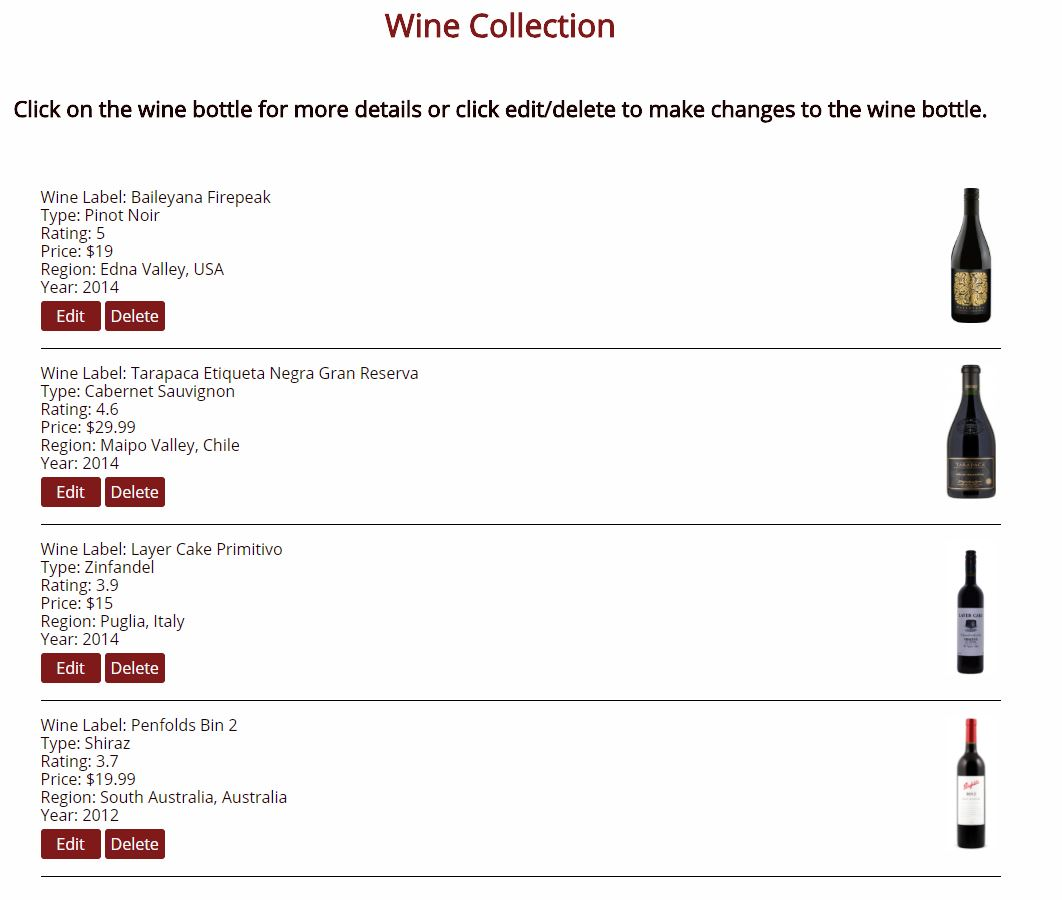
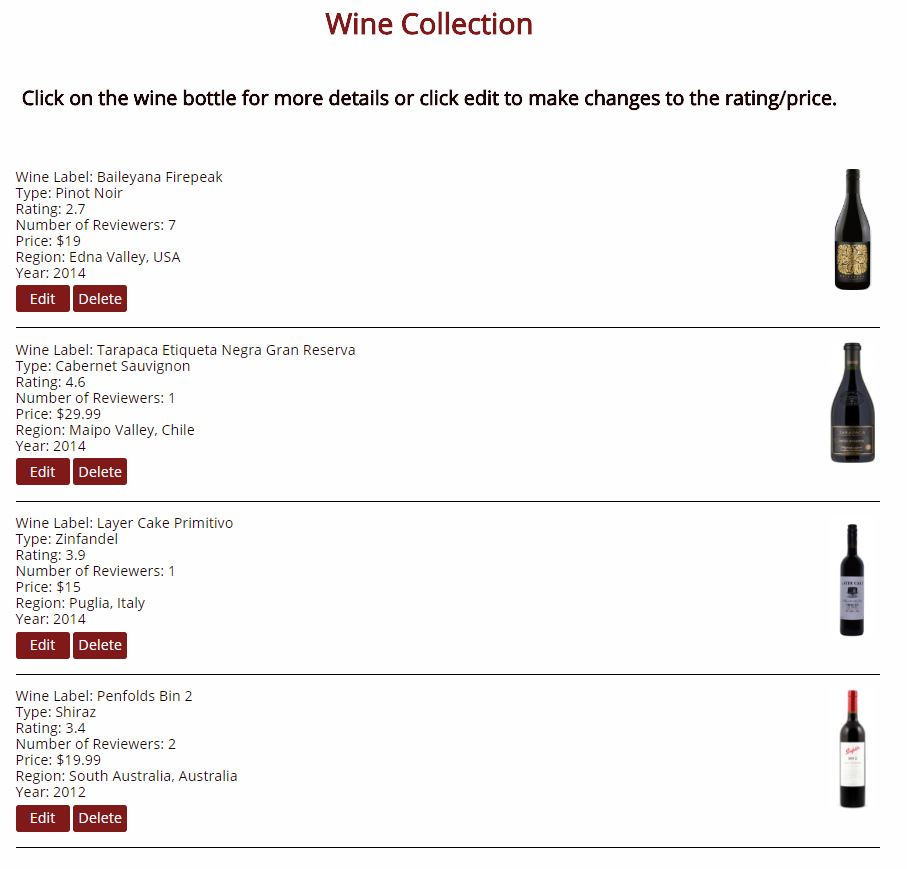
Remove console.logs

diff --git a/public/app.js b/public/app.js
@@ -25,7 +25,7 @@ function getRedWine() {
 }
 
 //Get Red Wine by ID
-function getRedWineByID(id) {
+function getRedWineByID(id, color) {
     let authToken = localStorage.getItem('authToken');
     const settings2 = {
         'async': true,
@@ -37,9 +37,11 @@ function getRedWineByID(id) {
             'Cache-Control': 'no-cache',
         },
         'success': function(currentID) {
-            singleWineResult(currentID);
-            editWine(currentID);
-            console.log(currentID);
+            if(color === 'redWine') {
+                editWine(currentID);
+            } else {
+                singleWineResult(currentID);
+            }
         }
     }
     $.ajax(settings2);
@@ -70,7 +72,7 @@ function getWhiteWine() {
 }
 
 //Get White Wine by ID
-function getWhiteWineByID(id) {
+function getWhiteWineByID(id, color) {
     let authToken = localStorage.getItem('authToken');
     const settings4 = {
         'async': true,
@@ -82,8 +84,11 @@ function getWhiteWineByID(id) {
             'Cache-Control': 'no-cache',
         },
         'success': function(currentID) {
-            singleWineResult(currentID);
-            editWine(currentID);
+            if(color === 'whiteWine') {
+                editWine(currentID);
+            } else {
+                singleWineResult(currentID);
+            }
         }
     }
     $.ajax(settings4);
@@ -226,13 +231,13 @@ function newUser() {
             <fieldset name='newAddedUser'>
             <legend>New User</legend>
             <label for='js-new-first-name' class='newUserFirstName'>First Name</label>
-            <input placeholder='Alice' type='text' name='js-new-first-name' id='js-new-first-name'>
+            <input placeholder='Ryan' type='text' name='js-new-first-name' id='js-new-first-name'>
             <label for='js-new-last-name' class='newUserLastName'>Last Name</label>
-            <input placeholder='Red' type='text' name='js-new-last-name' id='js-new-last-name'>
-            <label for='js-new-user-name' class='newUserName'>User Name</label>
+            <input placeholder='Okamuro' type='text' name='js-new-last-name' id='js-new-last-name'>
+            <label for='js-new-user-name' class='newUserName'>Username</label>
             <input placeholder='username' type='text' name='js-new-user-name' id='js-new-user-name'>
             <label for='js-new-user-password' class='newUserPassword'>Password <br/><span id='reenterPass'></span></label>
-            <input placeholder='mysecretpassword' type='text' name='js-new-user-password' id='js-new-user-password'>
+            <input placeholder='password' type='text' name='js-new-user-password' id='js-new-user-password'>
             <button role='button' type='submit' class='js-add-user'>Submit</button>
             </fieldset>
         </form>
@@ -291,7 +296,6 @@ function wineQuery() {
     $('.footer').hide();
     $('#new-registration').hide();
     $('#wineDetails').hide();
-    //display brand, red wine, or white wine search page
     let outputElem = $('#red-white');
         outputElem
             .prop('hidden', false)
@@ -299,6 +303,7 @@ function wineQuery() {
     $('#red-white').show();      
 }
 
+//Red Wine Search
 function redWineQuery(redLabel) {
     for (index in redLabel.redWine) {
         let valueID = redLabel.redWine[index].id;
@@ -310,6 +315,7 @@ function redWineQuery(redLabel) {
     }
 }
 
+//White Wine Search
 function whiteWineQuery(whiteLabel) {
     for (index in whiteLabel.whiteWine) {
         let valueID = whiteLabel.whiteWine[index].id;
@@ -387,6 +393,7 @@ function editWine(currentWine) {
     </section>
     `;
     $('#wineList').hide();
+    $('#wineDetails').hide();
     let outputElem = $('#editWineDetails');
     outputElem
         .prop('hidden', false)
@@ -400,7 +407,7 @@ function wineCollectionListing() {
     let searchResultsList = `
     <section role='region' class='wineListing'>
         <h5>Wine Collection</h5>
-        <h6>Click on the wine bottle for more details or click edit/delete to make changes to the wine bottle.</h6>
+        <h6>Click on the wine bottle for more details or click edit to make changes to the rating/price.</h6>
     </section>
     <section role='region' class='wineResults'>
     </section>
@@ -428,13 +435,13 @@ function singleWineResult(currentWine) {
         <a href='${currentWine.moreInformation}'>More information</a>
         <button role='button' type='button' class='js-back-wine-search'>Return to Wine Search</button>
     </section>
-   
     `;
     let li = document.createElement('li');
     li.innerHTML = `
         Wine Label: ${currentWine.wineLabelDetails} <br />
         Type: ${currentWine.type} <br />
-        Rating: ${currentWine.rating} <br /> 
+        Rating: ${currentWine.rating} <br />
+        Number of Reviewers: ${currentWine.numRaters} <br />
         Price: $${currentWine.averagePrice} <br />
         Region: ${currentWine.wineOrigin} <br />
         Year: ${currentWine.year} <br />
@@ -462,6 +469,7 @@ function createRedWineListing(data) {
         Wine Label: ${data.redWine[index].wineLabelDetails} <br /> 
         Type: ${data.redWine[index].type} <br /> 
         Rating: ${data.redWine[index].rating} <br />
+        Number of Reviewers: ${data.redWine[index].numRaters} <br />
         Price: $${data.redWine[index].averagePrice} <br />  
         Region: ${data.redWine[index].wineOrigin} <br /> 
         Year: ${data.redWine[index].year} <br />    
@@ -485,6 +493,7 @@ function createWhiteWineListing(data) {
         Wine Label: ${data.whiteWine[index].wineLabelDetails} <br /> 
         Type: ${data.whiteWine[index].type} <br /> 
         Rating: ${data.whiteWine[index].rating} <br />
+        Number of Reviewers: ${data.whiteWine[index].numRaters} <br />
         Price: ${data.whiteWine[index].averagePrice} <br />  
         Region: ${data.whiteWine[index].wineOrigin} <br /> 
         Year: ${data.whiteWine[index].year} <br />    
@@ -660,14 +669,12 @@ function whiteWineSearchWindow() {
 function editWineLabel() {
     $('.js-edit-wine-info').on('click', function(event) {
         let currentWine = $(this).val();
-        console.log(currentWine);
         let color = $(this).siblings('img').attr('class');
-        console.log(color);
         event.preventDefault();
-        if (color === "redWine") {
-            getRedWineByID(currentWine);
+        if (color === 'redWine') {
+            getRedWineByID(currentWine, color);
         } else {
-            getWhiteWineByID(currentWine);
+            getWhiteWineByID(currentWine, color);
         }
     })    
 }
@@ -690,30 +697,26 @@ function removeWine(data) {
 
 //Submit Edited Wine Information
 function submitEditLabel(currentWine) {
-    console.log(currentWine);
     $('.editBottle-form').submit('.js-update-bottle', event => {
         event.preventDefault();
         let id = currentWine.id
-        console.log(id);
         let currentRating = $(event.target).find('#js-edit-wine-rating').val();
-        console.log(currentRating);
-        console.log(currentWine.cumulativeRating);
-        console.log(currentWine.numRaters);
         let combinedRating = parseFloat(currentRating) + parseFloat(currentWine.cumulativeRating);
-        console.log(combinedRating);
-        let totalRaters = parseFloat(currentWine.numRaters) + 1;
-        console.log(totalRaters);
+        let totalRaters;
+        if (isNaN(combinedRating)) {
+            totalRaters = parseFloat(currentWine.numRaters)
+        } else {
+            totalRaters = parseFloat(currentWine.numRaters) + 1;
+        }
+        let ratingEquation = combinedRating/totalRaters;
+        let rating = Math.round(ratingEquation*10)/10;
         let wineData = {
-            rating: combinedRating/totalRaters,
+            rating: rating,
             cumulativeRating: combinedRating,
             numRaters: totalRaters,
             averagePrice: $(event.target).find('#js-edit-wine-averagePrice').val()
         };
-        console.log(combinedRating/totalRaters);
-        console.log(combinedRating);
-        console.log(totalRaters);
         if (currentWine.color === 'Red') {
-            console.log(currentWine.color);
             editCurrentRedWine(id, wineData)
         } else {
             editCurrentWhiteWine(id, wineData)
@@ -739,7 +742,7 @@ function singleWhiteWineSearchWindow() {
     })
 }
 
-//Re-start quiz
+//Re-start search
 function returnSearchWindow() {
     $('#wineDetails').on('click','.js-back-wine-search', event=> {
         getRedWine();

diff --git a/whiteWine/models.js b/whiteWine/models.js
@@ -8,6 +8,8 @@ const wineSchema = mongoose.Schema({
     color: {type: String, required: true},
     type: {type: String, required: true},
     rating: {type: Number, required: true},
+    numRaters: {type: Number, required: false},
+    cumulativeRating: {type: Number, required: false},
     averagePrice: {type: Number, required: true},
     region: {type: String, required: true},
     country: {type: String, required: true},
@@ -30,6 +32,8 @@ wineSchema.methods.serialize = function() {
         wineLabelDetails: this.wineLabelDetails,
         type: this.type,
         rating: this.rating,
+        numRaters: this.numRaters,
+        cumulativeRating: this.cumulativeRating,
         averagePrice: this.averagePrice,
         wineOrigin: this.wineOrigin,
         year: this.year,

diff --git a/whiteWine/router.js b/whiteWine/router.js
@@ -51,6 +51,8 @@ router.post('/', jsonParser, (req, res) => {
       color: req.body.color,
       type: req.body.type,
       rating: req.body.rating,
+      numRaters: req.body.numRaters,
+      cumulativeRating: req.body.cumulativeRating,
       averagePrice: req.body.averagePrice,
       region: req.body.region,
       country: req.body.country,
@@ -75,7 +77,7 @@ router.put('/:id', jsonParser, (req, res) => {
       return res.status(400).json({message: message });
     }
   const toUpdate = {};
-  const updateableFields = ['rating', 'averagePrice'];
+  const updateableFields = ['rating', 'numRaters', 'cumulativeRating', 'averagePrice'];
 
   updateableFields.forEach(field => {
     if (req.body.whiteBottle[field]) {

diff --git a/test/test-wine-integration-white-wine.js b/test/test-wine-integration-white-wine.js
@@ -9,7 +9,6 @@ const mongoose = require('mongoose');
 const {White} = require('../whiteWine/models');
 const {app, runServer, closeServer} = require('../server');
 const {TEST_DATABASE_URL} = require('../config');
-console.log(TEST_DATABASE_URL);
 const expect = chai.expect;
 
 chai.use(chaiHttp);

diff --git a/test/test-wine-integration-red-wine.js b/test/test-wine-integration-red-wine.js
@@ -9,7 +9,6 @@ const mongoose = require('mongoose');
 const {Red} = require('../redWine/models');
 const {app, runServer, closeServer} = require('../server');
 const {TEST_DATABASE_URL} = require('../config');
-console.log(TEST_DATABASE_URL);
 const expect = chai.expect;
 
 chai.use(chaiHttp);
